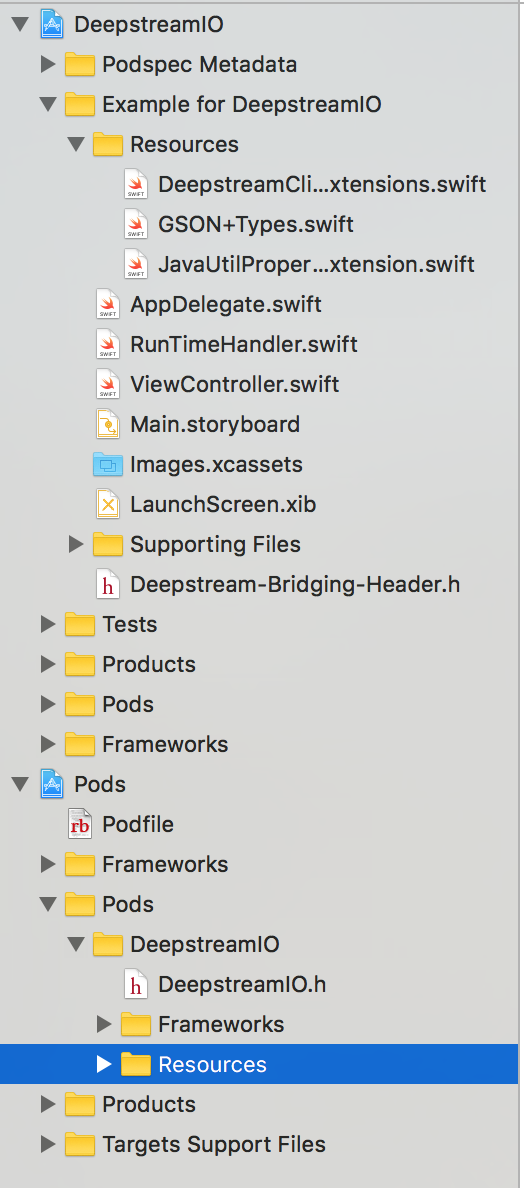
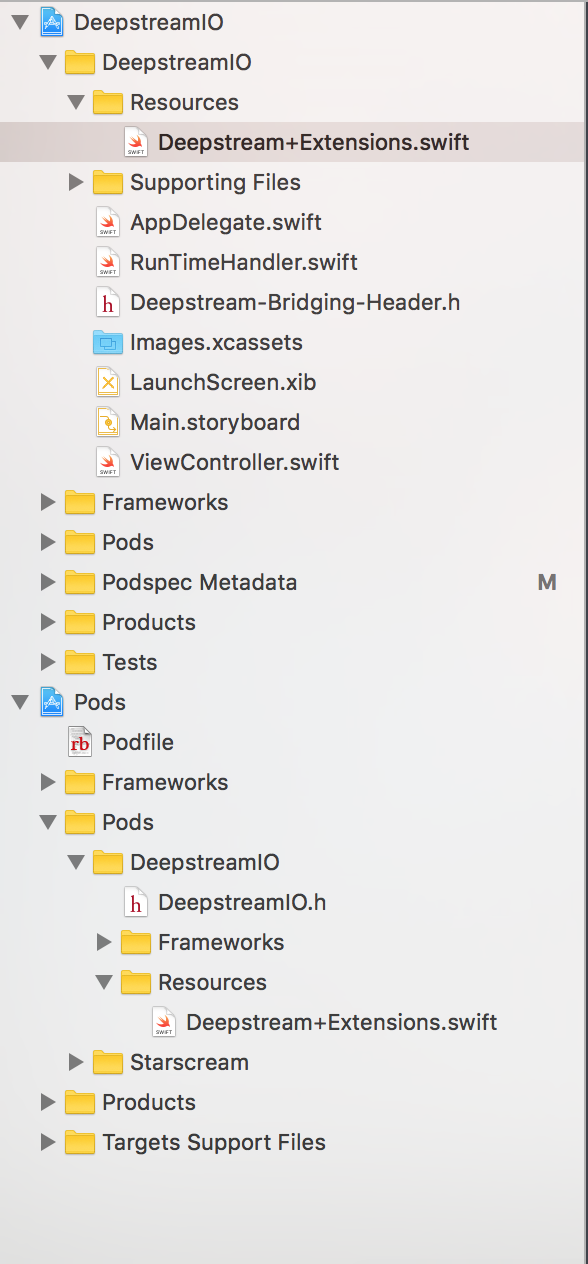
Updated README - copying Swift extensions image and related text (#11)
* Added Starscream Websocket lib as dependency

* Changed ViewController to use new IOS DS Factory system

* Synced projcet

* Replaced multiple extension files with 1

* Re-added Runtime handler

* Fix paths

* New getClient with callback

* Remove sleep

* Updated README - extensions image

diff --git a/README.md b/README.md
@@ -46,9 +46,9 @@ An example of this is in the [Example](Example) project in the repository.
 
 # Deepstream Extensions
 
-To help bridge between the Java transpiled Objective-C, several Swift extension files are provided in the Pod that can be used to simplify usage of the DeepstreamIO pod.
+To help bridge between the Java transpiled Objective-C, a Swift extension file has been provided in the Pod that can be used to simplify usage of the DeepstreamIO pod.
 
-To add these:
+To add this:
 
 1. In the newly created .xcworkspace in your directory, expand the `Pods > Pods > DeepstreamIO` tree.
 
